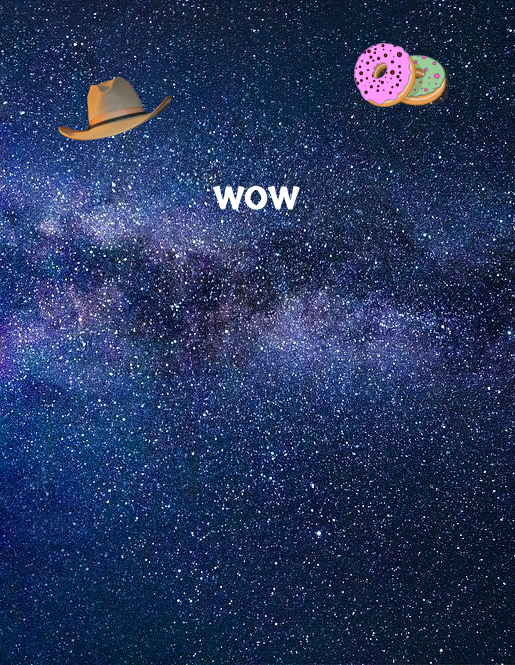
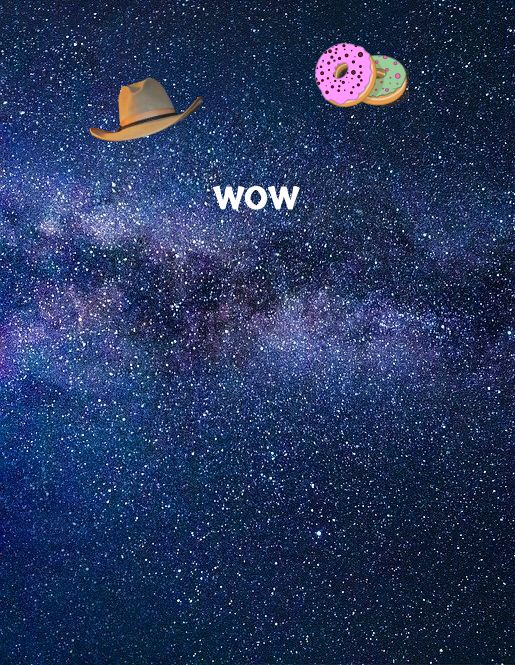
Add media queries to the top Homepage section

Changed region(s): [[0.5903, 0.0602, 0.8699, 0.1805], [0.0932, 0.0902, 0.4039, 0.2105]]

diff --git a/src/components/Login/Login.style.ts b/src/components/Login/Login.style.ts
@@ -1,15 +1,16 @@
 import styled from 'styled-components';
 import { TextField } from '@material-ui/core';
 import milkyWay from '../../assets/images/milky-way.png';
+import { SIZES } from '../../assets/styles/mediaQueries';
 
 export const Box = styled.div`
-  width: 400px;
+  width: 300px;
   height: 600px;
   overflow: hidden;
   display: grid;
   grid-template-columns: 1fr;
   grid-template-rows: 230px 370px;
-  margin-top: 100px;
+  margin-top: 16px;
   background-image: url(${milkyWay});
   background-position: center;
   background-repeat: no-repeat;
@@ -22,6 +23,16 @@ export const Box = styled.div`
     text-align: center;
     font-size: 1.9rem;
     margin: 16px 0;
+  }
+  @media only screen and ${SIZES.mobileS} {
+    width: 320px;
+  }
+  @media only screen and ${SIZES.mobileM} {
+    width: 350px;
+  }
+  @media only screen and ${SIZES.tablet} {
+    margin-top: 100px;
+    width: 400px;
   }
 `;
 export const LoginSection = styled.section`

diff --git a/src/components/Home/Home.style.ts b/src/components/Home/Home.style.ts
@@ -1,14 +1,33 @@
 import styled from 'styled-components';
+import { SIZES } from '../../assets/styles/mediaQueries';
 
 export const GreetingSection = styled.section`
-  position: relative;
   width: 100%;
   margin: 0 auto 400px;
-  padding: 0 40px 16px;
+  padding: 0 16px;
   display: flex;
-  align-items: start;
-  justify-content: space-around;
+  flex-direction: column;
+  align-items: center;
+  justify-content: flex-start;
+  overflow: hidden;
   img {
-    width: 400px;
+    width: 300px;
+  }
+  @media only screen and ${SIZES.mobileM} {
+    img {
+      width: 350px;
+    }
+  }
+  @media only screen and ${SIZES.tablet} {
+    display: flex;
+    align-items: start;
+    justify-content: space-around;
+    flex-direction: row;
+    padding: 0 40px 16px;
+  }
+  @media only screen and ${SIZES.laptop} {
+    img {
+      width: 400px;
+    }
   }
 `;

diff --git a/src/assets/styles/mediaQueries.ts b/src/assets/styles/mediaQueries.ts
@@ -1,5 +1,6 @@
 export const SIZES = {
   mobileS: `(min-width: 360px)`,
+  mobileM: `(min-width: 414px)`,
   mobileL: `(min-width: 540px)`,
   tablet: `(min-width: 768px)`,
   laptop: `(min-width: 1024px)`,

diff --git a/src/components/Header/Header.style.ts b/src/components/Header/Header.style.ts
@@ -6,7 +6,7 @@ export const StyledHeader = styled.header`
   width: 100%;
   padding: 16px 24px;
   background-color: #173e55;
-  margin-bottom: 56px;
+  margin-bottom: 42px;
   * {
     color: #fff;
   }
